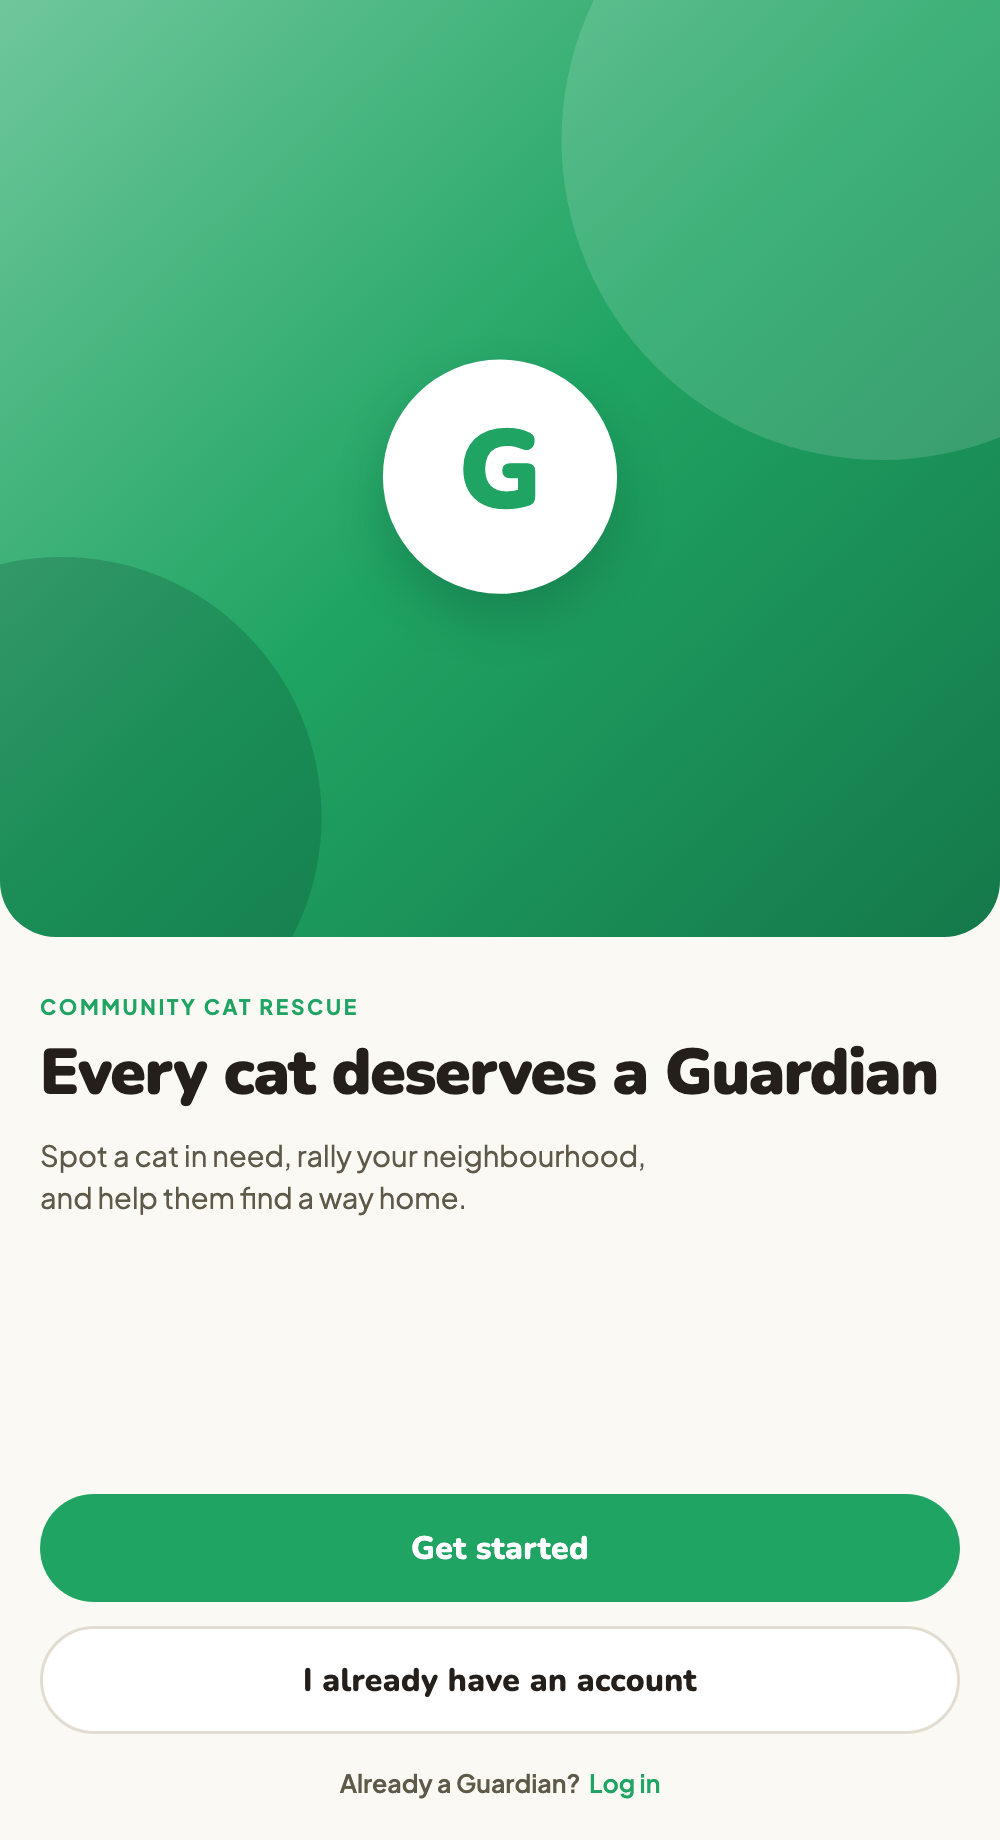
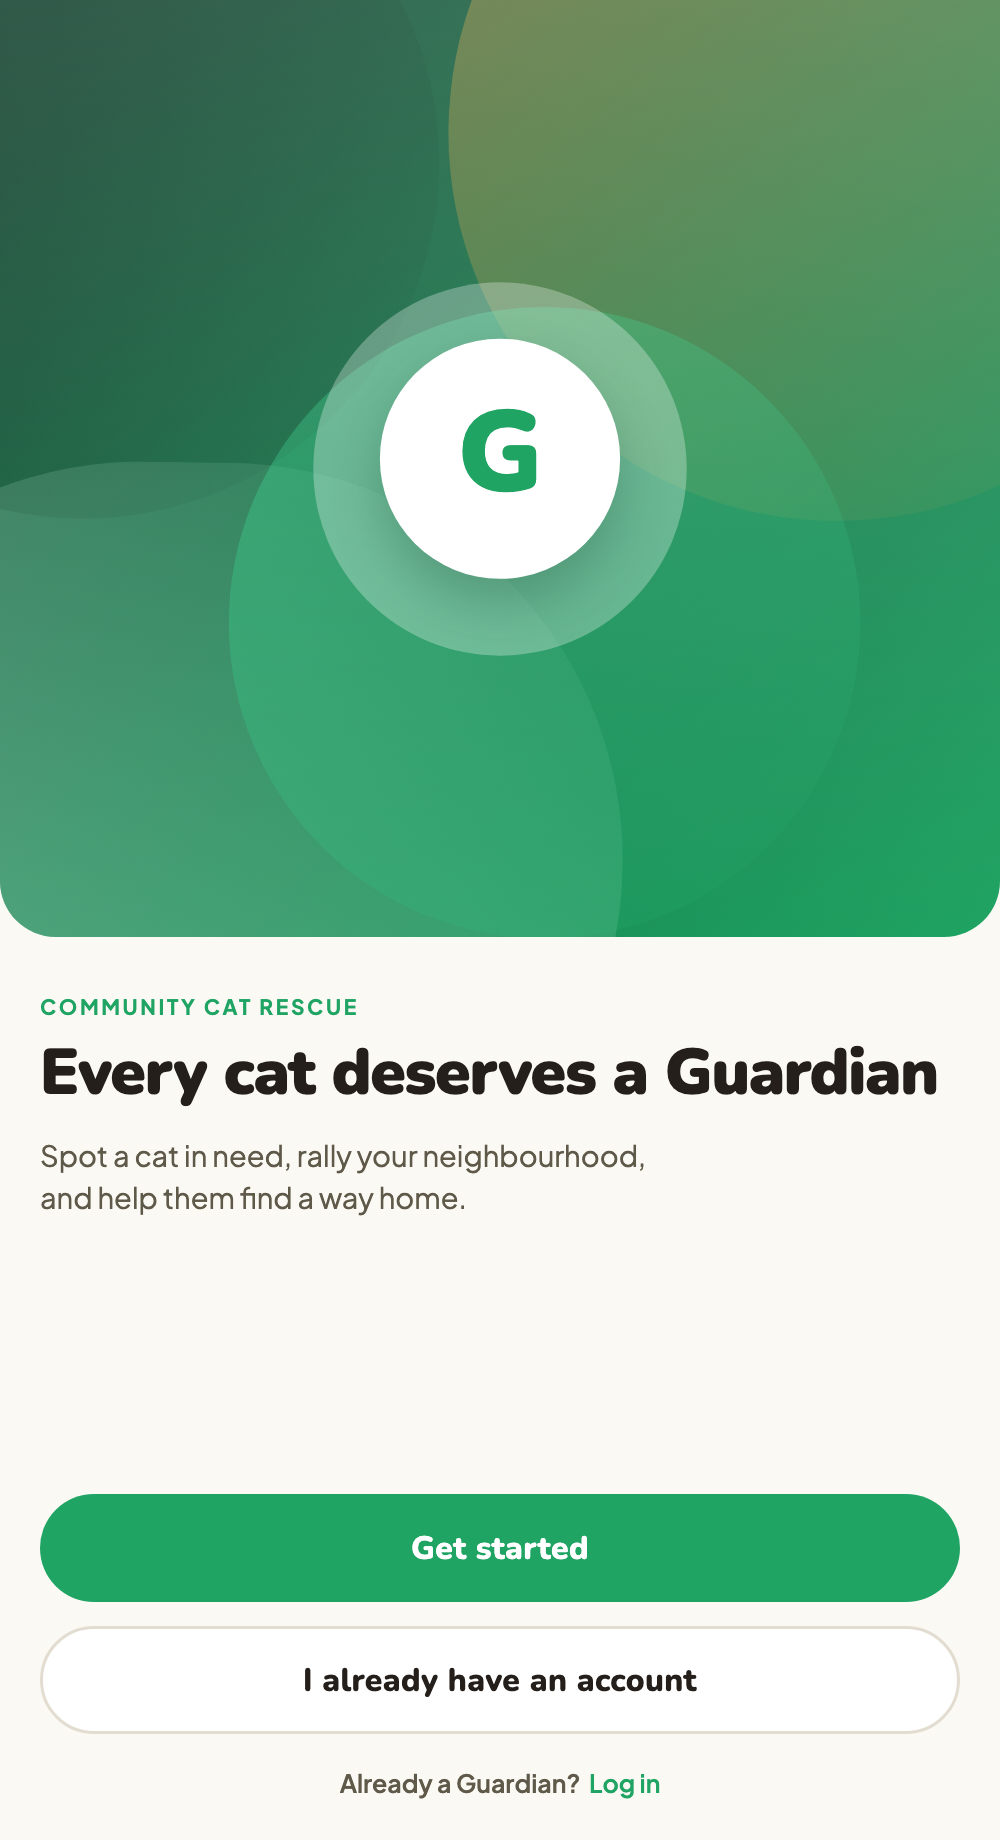
Add production roadmap and redesign onboarding with aurora background
ROADMAP.md
- Sequenced milestone plan (M0 launch blockers → M1 ops → M2 quality gates
  → M3 perf/a11y) with severity/effort, exit criteria, risks, and a
  post-launch backlog. Incorporates the code-level audit findings and three
  confirmations: iOS permission strings already complete; in-app account
  deletion confirmed missing (M0 blocker); moderation (block/report/takedown)
  more complete than assumed.

Onboarding (app/(auth)/welcome.tsx)
- Replace the two static blobs with an animated aurora mesh-gradient: four
  independently-drifting, soft gradient orbs over a deep-emerald base, a top
  sheen, and a refined emblem with a pulsing halo ring.
- Respect reduce-motion (useReducedMotion freezes the field) — also chips at
  the M3 accessibility item.

README
- Lead with the redesigned onboarding as a centered hero image; regenerate
  docs/screenshots/01-welcome.png to match the new design.

Cleanup
- Move the reintroduced + a pre-existing `pointerEvents` prop into
  `style.pointerEvents` (welcome.tsx, RewardBurst.tsx) — no more deprecation warning.

Verified: `npm run typecheck` clean; renders correctly on web; pointerEvents
warning confirmed gone.

diff --git a/app/(auth)/welcome.tsx b/app/(auth)/welcome.tsx
@@ -1,13 +1,15 @@
 import { LinearGradient } from 'expo-linear-gradient';
 import { useRouter } from 'expo-router';
 import { useEffect } from 'react';
-import { StyleSheet, View } from 'react-native';
+import { StyleSheet, View, type ViewStyle } from 'react-native';
 import Animated, {
   Easing,
   FadeInDown,
   interpolate,
   useAnimatedStyle,
+  useReducedMotion,
   useSharedValue,
+  withDelay,
   withRepeat,
   withTiming,
 } from 'react-native-reanimated';
@@ -17,48 +19,145 @@ import { PressableScale } from '@/components/PressableScale';
 import { Button, Text } from '@/components/ui';
 import { colors, motion, palette, radius, spacing } from '@/theme';
 
-const HERO_GRADIENT = [palette.green300, palette.green500, palette.green700] as const;
+// Deep emerald → rescue green base the aurora orbs drift over.
+const BASE_GRADIENT = [palette.green900, palette.green700, palette.green500] as const;
+
+/**
+ * Soft, drifting color orbs that together read as a flowing mesh-gradient
+ * "shader" behind the hero. Each orb is a rounded, clipped LinearGradient that
+ * fades to its own hue at zero alpha (so edges feather instead of hard-cutting),
+ * animated on an independent slow loop so the field never visibly repeats.
+ * Pure Reanimated + expo-linear-gradient — no native shader dependency, and it
+ * renders identically on web (the dev preview) and native.
+ */
+type Orb = {
+  colors: readonly [string, string];
+  box: ViewStyle;
+  dur: number;
+  delay: number;
+  drift: { x: number; y: number };
+  rotate: number;
+  start: { x: number; y: number };
+  end: { x: number; y: number };
+};
+
+const ORBS: Orb[] = [
+  {
+    colors: ['rgba(244,169,60,0.42)', 'rgba(244,169,60,0)'], // honey, top-right
+    box: { width: 360, height: 360, top: -120, right: -90 },
+    dur: 7200, delay: 0, drift: { x: 26, y: 20 }, rotate: 18,
+    start: { x: 0.2, y: 0 }, end: { x: 1, y: 1 },
+  },
+  {
+    colors: ['rgba(176,232,206,0.55)', 'rgba(176,232,206,0)'], // mint, bottom-left
+    box: { width: 420, height: 380, bottom: -150, left: -120 },
+    dur: 9000, delay: 600, drift: { x: 30, y: 26 }, rotate: 14,
+    start: { x: 0, y: 1 }, end: { x: 1, y: 0 },
+  },
+  {
+    colors: ['rgba(45,200,130,0.5)', 'rgba(45,200,130,0)'], // emerald glow, center
+    box: { width: 300, height: 300, top: '34%', left: '24%' },
+    dur: 6200, delay: 1200, drift: { x: 22, y: 18 }, rotate: 22,
+    start: { x: 0, y: 0 }, end: { x: 1, y: 1 },
+  },
+  {
+    colors: ['rgba(8,48,32,0.45)', 'rgba(8,48,32,0)'], // deep shadow, top-left
+    box: { width: 340, height: 340, top: -90, left: -130 },
+    dur: 8200, delay: 300, drift: { x: 24, y: 20 }, rotate: 16,
+    start: { x: 0, y: 0 }, end: { x: 1, y: 1 },
+  },
+];
+
+function AuroraOrb({ orb, reduced }: { orb: Orb; reduced: boolean }) {
+  const t = useSharedValue(0.5);
+
+  useEffect(() => {
+    if (reduced) {
+      t.value = 0.5;
+      return;
+    }
+    t.value = withDelay(
+      orb.delay,
+      withRepeat(withTiming(1, { duration: orb.dur, easing: Easing.inOut(Easing.ease) }), -1, true),
+    );
+  }, [reduced, orb.delay, orb.dur, t]);
+
+  const style = useAnimatedStyle(() => ({
+    transform: [
+      { translateX: interpolate(t.value, [0, 1], [-orb.drift.x, orb.drift.x]) },
+      { translateY: interpolate(t.value, [0, 1], [-orb.drift.y, orb.drift.y]) },
+      { scale: interpolate(t.value, [0, 1], [0.92, 1.16]) },
+      { rotate: `${interpolate(t.value, [0, 1], [-orb.rotate, orb.rotate])}deg` },
+    ],
+  }));
+
+  return (
+    <Animated.View style={[styles.orb, orb.box, style]}>
+      <LinearGradient colors={orb.colors} start={orb.start} end={orb.end} style={StyleSheet.absoluteFill} />
+    </Animated.View>
+  );
+}
 
 export default function WelcomeScreen() {
   const router = useRouter();
+  const reduced = useReducedMotion() ?? false;
 
-  // Signature moment: the emblem drifts gently, evoking the design's flowing hero.
-  const float = useSharedValue(0);
+  // Signature moment: the emblem drifts gently above the aurora.
+  const float = useSharedValue(0.5);
   useEffect(() => {
+    if (reduced) {
+      float.value = 0.5;
+      return;
+    }
     float.value = withRepeat(
       withTiming(1, { duration: 3600, easing: Easing.inOut(Easing.ease) }),
       -1,
       true,
     );
-  }, [float]);
+  }, [reduced, float]);
   const floatStyle = useAnimatedStyle(() => ({
     transform: [
-      { translateY: interpolate(float.value, [0, 1], [5, -5]) },
-      { scale: interpolate(float.value, [0, 1], [0.99, 1.01]) },
+      { translateY: interpolate(float.value, [0, 1], [6, -6]) },
+      { scale: interpolate(float.value, [0, 1], [0.99, 1.02]) },
     ],
   }));
-  const blobStyle = useAnimatedStyle(() => ({
-    transform: [{ translateX: interpolate(float.value, [0, 1], [-12, 12]) }],
+  const haloStyle = useAnimatedStyle(() => ({
+    opacity: interpolate(float.value, [0, 1], [0.35, 0.6]),
+    transform: [{ scale: interpolate(float.value, [0, 1], [1, 1.12]) }],
   }));
 
   return (
     <View style={styles.flex}>
-      {/* ── Flowing green hero ── */}
+      {/* ── Aurora hero ── */}
       <View style={styles.heroWrap}>
         <LinearGradient
-          colors={HERO_GRADIENT}
+          colors={BASE_GRADIENT}
           start={{ x: 0.1, y: 0 }}
           end={{ x: 0.9, y: 1 }}
           style={styles.hero}
         >
-          <Animated.View style={[styles.blob, styles.blobA, blobStyle]} />
-          <Animated.View style={[styles.blob, styles.blobB, blobStyle]} />
+          {/* drifting mesh-gradient orbs */}
+          {ORBS.map((orb, i) => (
+            <AuroraOrb key={i} orb={orb} reduced={reduced} />
+          ))}
+
+          {/* top sheen for depth */}
+          <LinearGradient
+            colors={['rgba(255,255,255,0.16)', 'rgba(255,255,255,0)']}
+            start={{ x: 0.5, y: 0 }}
+            end={{ x: 0.5, y: 0.6 }}
+            style={[StyleSheet.absoluteFill, styles.noEvents]}
+          />
+
           <SafeAreaView edges={['top']} style={styles.heroSafe}>
             <Animated.View
               entering={FadeInDown.duration(motion.enter).springify().damping(motion.damping)}
             >
-              <Animated.View style={[styles.emblem, floatStyle]}>
-                <Text style={styles.emblemLetter}>G</Text>
+              <Animated.View style={styles.emblemWrap}>
+                <Animated.View style={[styles.halo, haloStyle]} />
+                <Animated.View style={[styles.emblem, floatStyle]}>
+                  <Text style={styles.emblemLetter}>G</Text>
+                </Animated.View>
               </Animated.View>
             </Animated.View>
           </SafeAreaView>
@@ -116,21 +215,17 @@ const styles = StyleSheet.create({
     borderBottomRightRadius: radius.sheet,
     overflow: 'hidden',
   },
+  orb: { position: 'absolute', borderRadius: 999, overflow: 'hidden', pointerEvents: 'none' },
+  noEvents: { pointerEvents: 'none' },
   heroSafe: { flex: 1, alignItems: 'center', justifyContent: 'center' },
-  blob: { position: 'absolute', borderRadius: 999 },
-  blobA: {
-    width: 320,
-    height: 320,
-    top: -90,
-    right: -110,
-    backgroundColor: 'rgba(255,255,255,0.14)',
-  },
-  blobB: {
-    width: 260,
-    height: 260,
-    bottom: -70,
-    left: -90,
-    backgroundColor: 'rgba(11,61,40,0.22)',
+  emblemWrap: { alignItems: 'center', justifyContent: 'center' },
+  halo: {
+    position: 'absolute',
+    width: 168,
+    height: 168,
+    borderRadius: 999,
+    backgroundColor: 'rgba(255,255,255,0.5)',
+    pointerEvents: 'none',
   },
   emblem: {
     width: 118,

diff --git a/src/components/RewardBurst.tsx b/src/components/RewardBurst.tsx
@@ -37,7 +37,7 @@ type Particle = (typeof PARTICLES)[number];
  */
 export function RewardBurst() {
   return (
-    <View pointerEvents="none" style={styles.wrap}>
+    <View style={styles.wrap}>
       {PARTICLES.map((p, i) => (
         <Bit key={i} p={p} />
       ))}
@@ -86,6 +86,7 @@ const styles = StyleSheet.create({
     alignItems: 'center',
     justifyContent: 'center',
     zIndex: 10,
+    pointerEvents: 'none',
   },
   bit: { position: 'absolute' },
 });

diff --git a/ROADMAP.md b/ROADMAP.md
@@ -1,0 +1,115 @@
+# Guardians — Production Readiness Roadmap
+
+> Path from "complete, runnable MVP" to a confident public launch on the App Store & Google Play.
+> Companion to [`PRODUCTION.md`](./PRODUCTION.md). Generated from a code-level audit (2026-06-23).
+
+**Effort key:** `S` ≤ 1 day · `M` ≈ 2–4 days · `L` ≈ 1–2 weeks · `XL` > 2 weeks.
+**Estimate to launch:** ~6–9 weeks focused; **M0** is the critical path, **M1/M2** overlap it.
+
+## Verdict
+
+The product and **security core is strong** — RLS on every table, all sensitive writes behind `SECURITY DEFINER` RPCs, location coarsening (~110 m for non-owners), double-spend protection, a real `send-push` Edge Function, marker clustering, keyset pagination, and a moderation system (report + block + moderator takedown). The gaps are in the **surround**: legal/store compliance, the release pipeline, operational visibility, and a test/quality safety net.
+
+### Already handled (confirmed in code — not gaps)
+- iOS permission usage strings + Android permissions + adaptive/monochrome icons + splash (`app.config.ts`).
+- Moderation backend & API: `report_content`, `moderate_content`, `blockUser`/`unblockUser`, `is_moderator` gate, moderation queue (`src/api/moderation.ts`, migration 0012).
+- `expo-secure-store` plugin already present (ready to back the auth session).
+- Push pipeline is real, not scaffolding: `supabase/functions/send-push/index.ts`.
+
+---
+
+## Milestone 0 — Launch Blockers
+**Goal:** a signed production build that installs on real iOS+Android devices, is legally compliant, and clears store review. **~2–4 weeks.**
+
+### Legal & Privacy
+| Task | Sev | Effort |
+|---|---|---|
+| Write **Privacy Policy + Terms/EULA** (collects precise location + photos + account); host; link from `app/settings.tsx` + both store listings. EULA must include a zero-tolerance objectionable-content clause (UGC). | blocker | M |
+| Add **in-app account deletion**: a `delete-account` Edge Function (service_role) that deletes the `auth.users` row (cascades to profile + all data) + a Settings UI action with confirm. **Confirmed missing today.** | blocker | M |
+| Complete **App Store Privacy Labels** + **Play Data Safety** (location, photos, account, identifiers). | blocker | S |
+| Surface the existing **block-user** action in the sighting/profile UI and document the 24h moderation-response process (Apple Guideline 1.2). Backend already exists. | high | S |
+
+### Secrets, Keys & Release Pipeline
+| Task | Sev | Effort |
+|---|---|---|
+| Create **real Google Maps keys** and **restrict** them (iOS bundle id; Android package + SHA-1). Map is on placeholders today. | blocker | S |
+| Move `EXPO_PUBLIC_*` + Maps keys into **EAS env vars/secrets**. | blocker | S |
+| Confirm **no `service_role` key** is committed; rotate the Supabase anon key if it ever was (the `sb_publishable_…` key is RLS-safe, rotate to be clean). | high | S |
+| Wire **EAS production build** + credentials + **`eas submit`**; create App Store Connect + Play Console apps; produce a **signed internal build** and smoke-test Maps/camera/push on real devices. | blocker | M |
+| Final store-quality **app icon / screenshots / listing copy**. | high | S |
+
+### Backend Go-Live
+| Task | Sev | Effort |
+|---|---|---|
+| Turn **email confirmation ON** + configure a real **SMTP sender** in Supabase. | high | S |
+| Enable **backups / Point-in-Time Recovery**; decide prod-vs-dev Supabase project split. | high | S |
+
+**Exit:** signed prod build runs on iOS+Android with live Maps; Privacy Policy + ToS linked in-app; account deletion works end-to-end; store privacy forms complete; internal-testing build distributed.
+
+---
+
+## Milestone 1 — Operational Readiness
+**Goal:** when production breaks, you find out and can debug + roll back. **~1–2 weeks, overlaps M0.**
+
+| Task | Sev | Effort | Notes |
+|---|---|---|---|
+| Install **`@sentry/react-native`** + Expo plugin; `Sentry.init` in `initObservability`. | high | M | Façade already feeds `captureError` (ErrorBoundary, global handler, React Query `onError`) — just needs the backend. |
+| **Source-map / Hermes symbol upload** in the EAS prod build. | high | M | Depends on Sentry. Otherwise stacks are unsymbolicated. |
+| Harden **`send-push`**: log non-OK Expo responses + `tokens_near` errors; handle Expo **receipts**; reap **DeviceNotRegistered** tokens; remove the empty `catch` in `src/api/push.ts`. | medium | M | Safety-critical feature fails silently today. |
+| Wire **`track()` → analytics** (e.g. PostHog). | medium | M | 4 funnel events already emitted, currently discarded. |
+| Add **`expo-updates`** + `runtimeVersion` + channel mapping for OTA rollback. | medium | M | No hot-fix path today. |
+| 1 **Sentry alert rule** + a Supabase/edge **uptime check**; "who gets paged" note. | medium | S | |
+
+**Exit:** a forced test crash appears **symbolicated** in Sentry from a release build; push failures log/alert; funnel events land in analytics; an OTA update reaches the preview channel.
+
+---
+
+## Milestone 2 — Quality Gates & Test Safety Net
+**Goal:** changes can't silently break the funnel, the security invariants, or the bundle. **~1–2 weeks.**
+
+| Task | Sev | Effort |
+|---|---|---|
+| Add **ESLint + `eslint-config-expo`** (+ Prettier); `lint` script; CI lint step; enable `react-hooks/exhaustive-deps`. | high | M |
+| **API-client tests**: mock `@/lib/supabase`, assert each of the 12 RPC wrappers sends correctly-named args (catches drift vs migrations). | high | L |
+| **pgTAP RLS/RPC suite** (owner-vs-stranger coordinates, direct score/status UPDATE denied, `redeem_reward` lock/cooldown, `is_moderator` gate); run via `supabase db test` in CI. | high | M |
+| Broaden `testMatch` to `.tsx` + `tsconfig.test.json` include; add 2–3 RNTL screen tests. | medium | M |
+| `deno check` + lint + 1 unit test for `send-push` (currently excluded from typecheck). | medium | S |
+| One **Maestro E2E** happy-path (sign-up → report → claim → rescue → adopt), **or** delete the false `.maestro/` reference in `jest.config.js`. | medium | M |
+| Add **`expo export` bundle job** + scoped coverage gate to CI. | medium | M |
+
+**Exit:** every PR runs lint + typecheck + unit + API + pgTAP + bundle; one green E2E flow.
+
+---
+
+## Milestone 3 — Performance, Accessibility & Polish
+**Goal:** ready to scale and pass an accessibility bar. **~1–2 weeks.**
+
+| Task | Sev | Effort |
+|---|---|---|
+| **Image resizing/thumbnails** via Supabase image transforms / CDN; cap upload size. | medium | M |
+| **Reduce-motion** support for Reanimated entrances; a11y sweep (labels/contrast/≥44pt/dynamic type). | medium | M |
+| Tune React Query `staleTime`/`gcTime`/refetch; remove dead `src/utils/placeholder.ts`. | low | S |
+| Resolve `userInterfaceStyle: 'automatic'` vs light-only theme (ship a dark theme or pin light). | low | S |
+
+**Exit:** images served resized; reduce-motion respected; a11y pass on core flows.
+
+---
+
+## Sequencing
+
+```
+M0 (legal + keys + native config + release pipeline)  ──►  SUBMIT
+   └─ M1 (Sentry, push hardening, OTA)   ── parallel from week 1
+        └─ M2 (lint, tests, pgTAP, CI gates)
+             └─ M3 (perf, a11y, polish)  ── before public GA / scale
+```
+Start **M0 + M1 together** — Sentry should be live before the first TestFlight build. **M2** protects everything post-launch.
+
+## Top risks
+1. Legal/store rejection (no privacy policy, no account deletion, incomplete privacy labels) — most likely to bounce a submission.
+2. Launching without Sentry — blind to crashes during the riskiest window.
+3. Silent push failures + unbounded dead-token growth.
+4. Argument-name drift between the API wrappers / `send-push` and the migrations — untested, and `tsc` won't catch it.
+
+## Post-launch backlog (not milestones)
+Dark mode · Apple/Google social sign-in · in-app chat · rescue-activity heatmap · guardian on-duty radius alerts · i18n/localization (strings hardcoded English; distance mi-only) · generated Supabase types.

diff --git a/README.md b/README.md
@@ -10,6 +10,10 @@
   <img src="https://img.shields.io/badge/Supabase-3ECF8E?style=for-the-badge&logo=supabase&logoColor=white" alt="Supabase" />
 </p>
 
+<p align="center">
+  <img src="docs/screenshots/01-welcome.png" alt="Guardians onboarding — Every cat deserves a Guardian" width="300" />
+</p>
+
 ## The Vision
 
 Every day, countless cats find themselves lost, injured, or abandoned. **Guardians** bridges the gap between those who spot cats in need and those who have the resources to help. 
